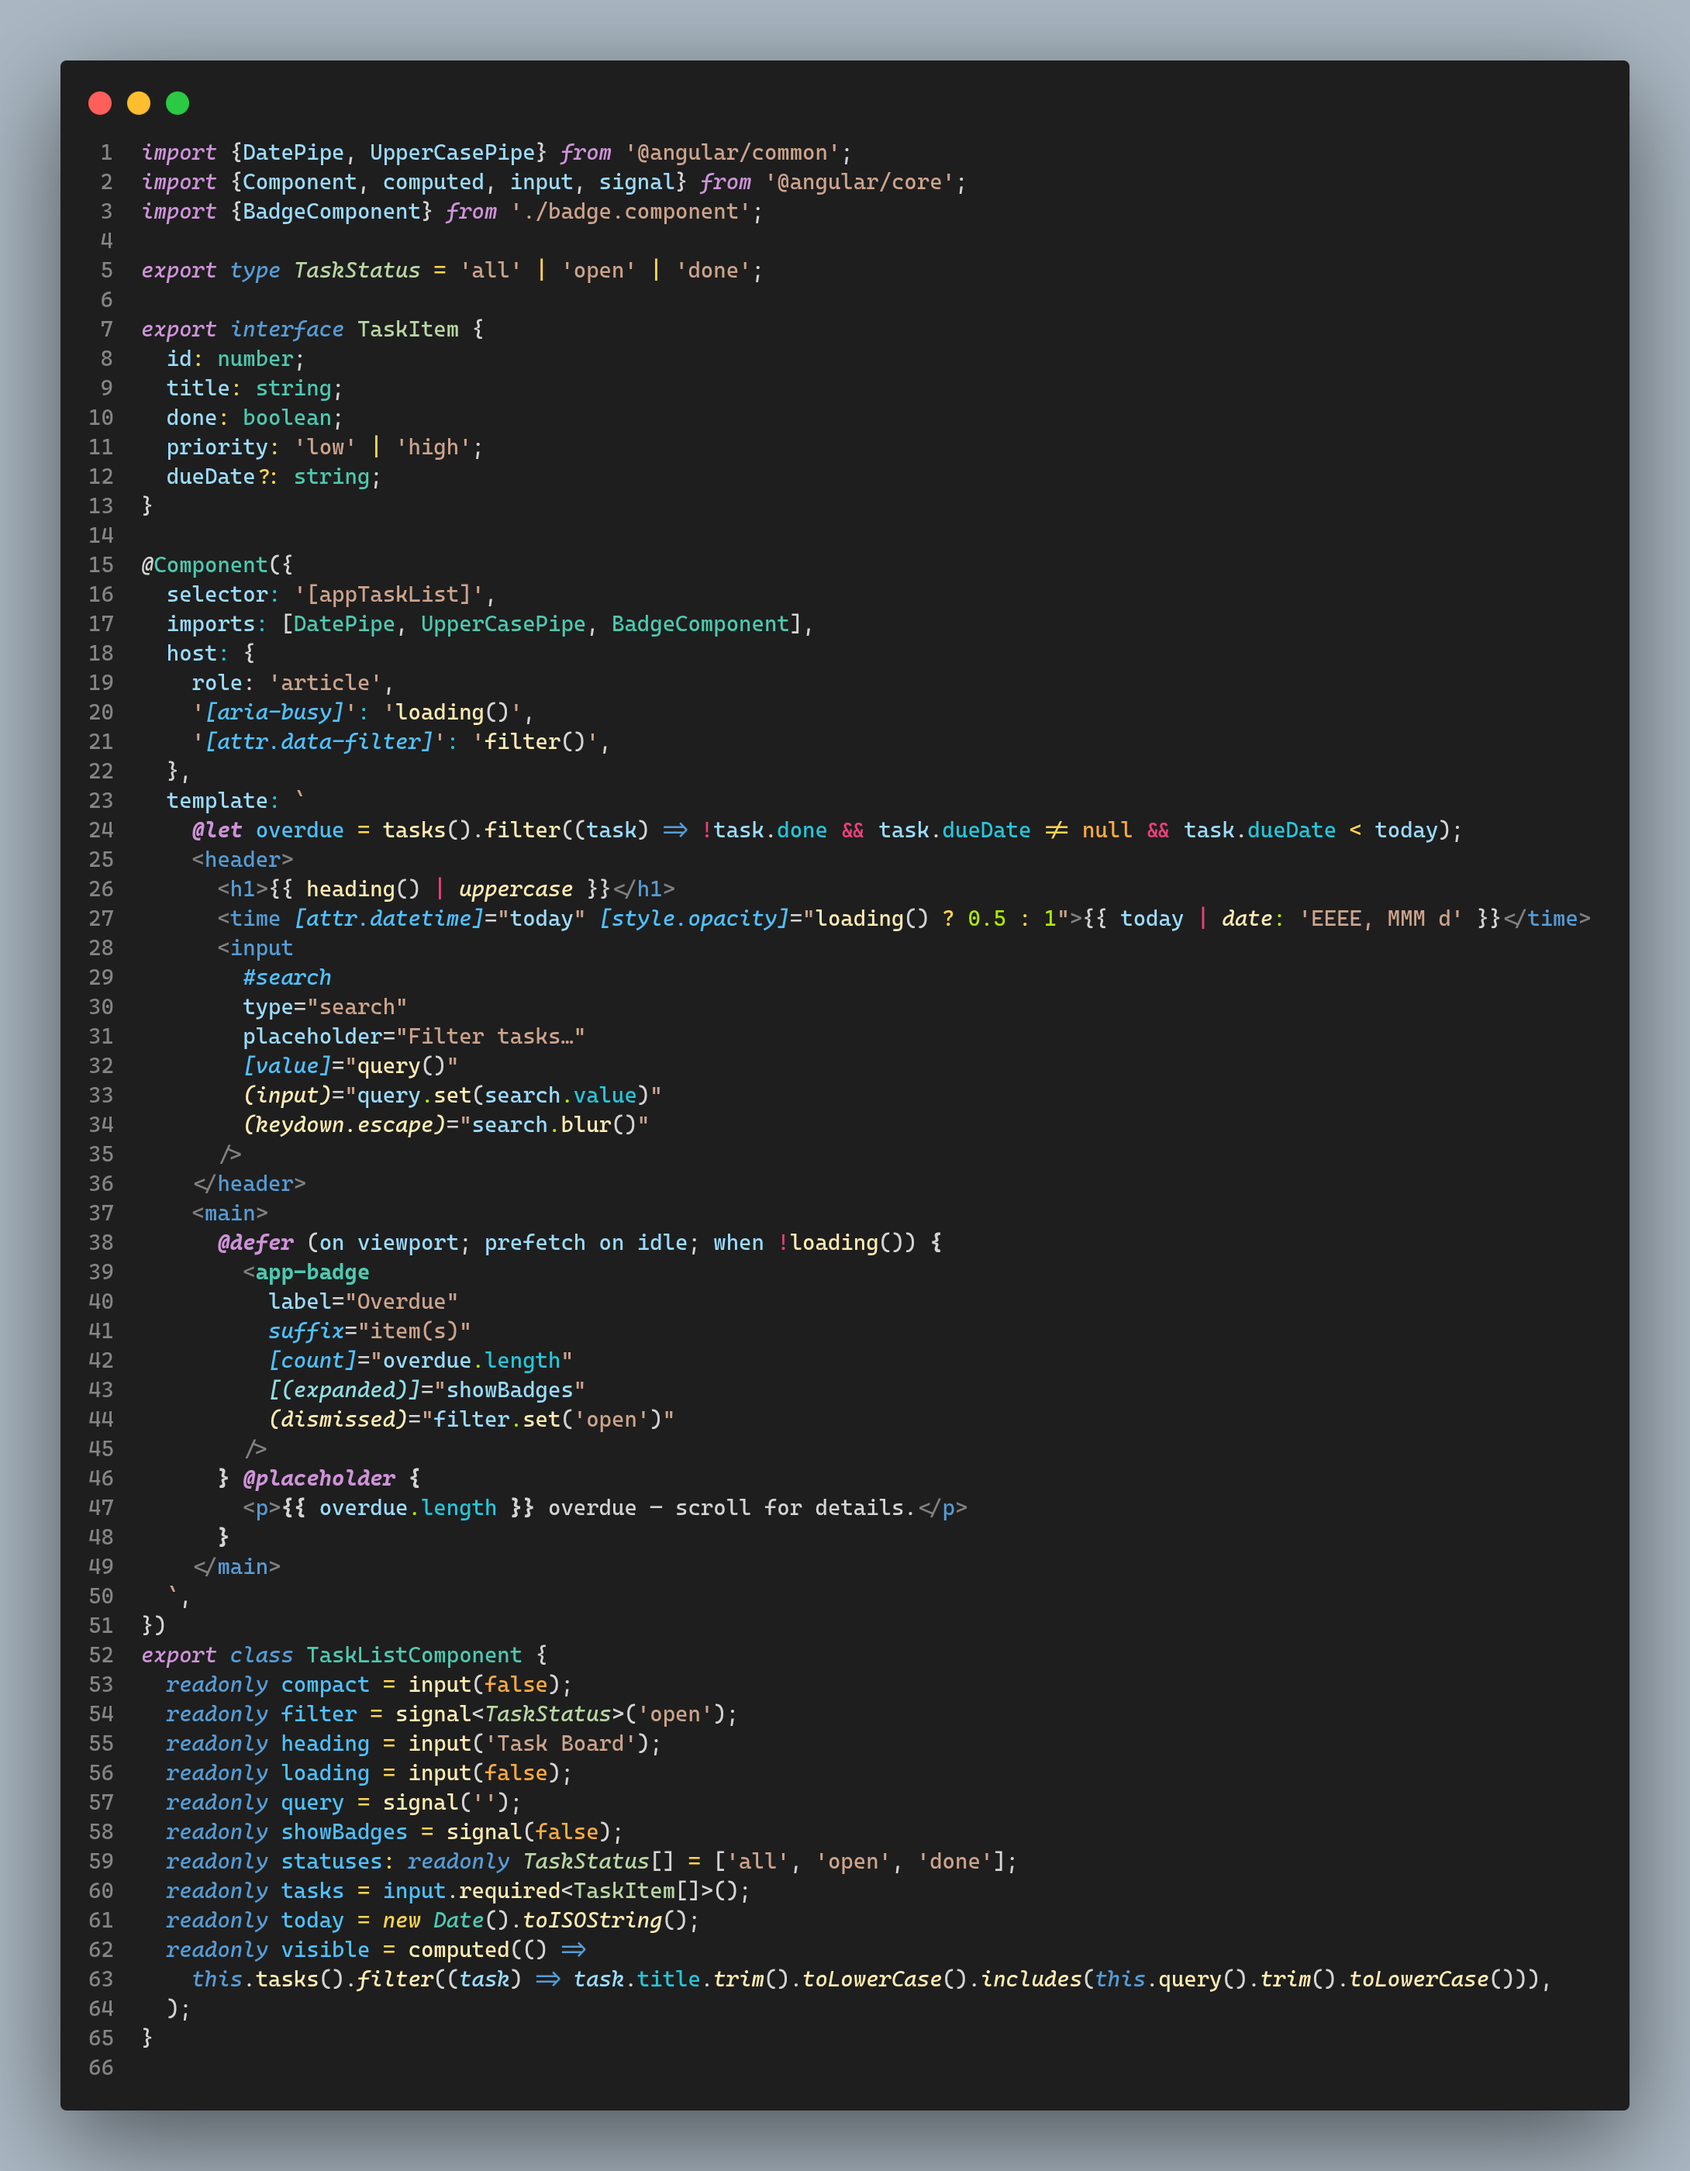
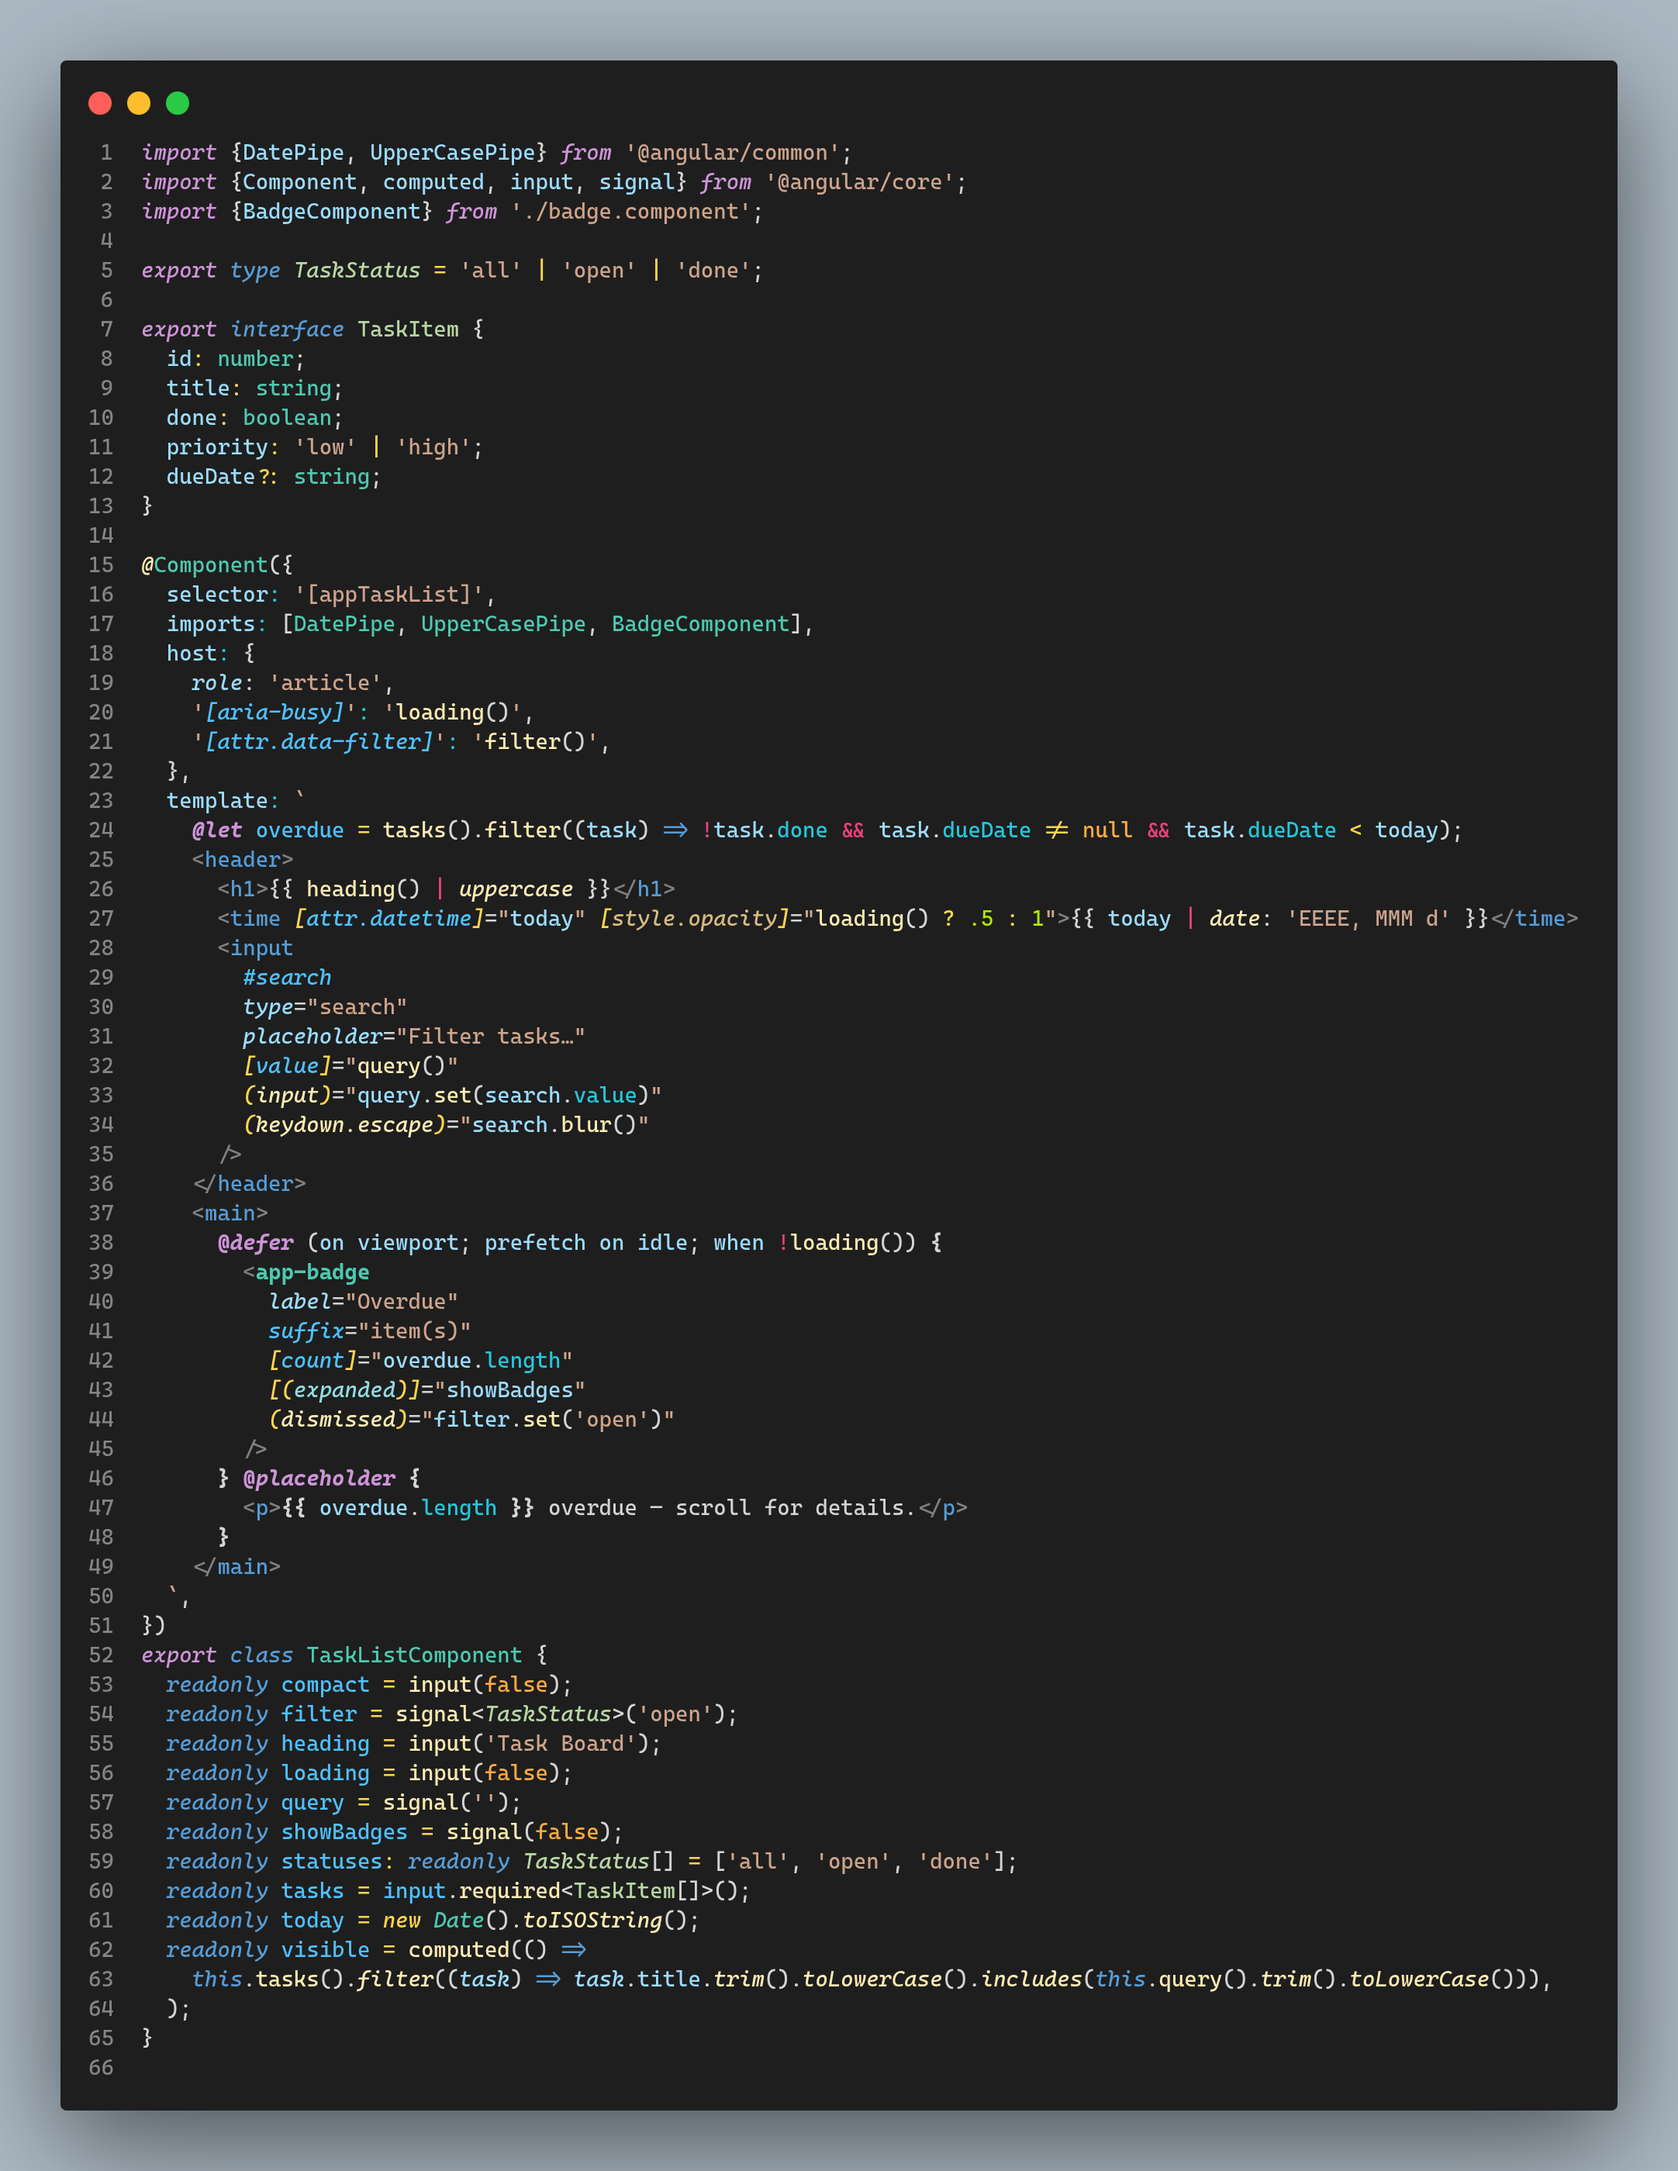
theme updated

diff --git a/samples/csharp/Sample.cs b/samples/csharp/Sample.cs
@@ -1,3 +1,6 @@
+using System.Collections.ObjectModel;
+using System.ComponentModel.DataAnnotations;
+
 namespace DarkSharp.Samples;
 
 public enum OrderStatus { Pending, Shipped, Delivered, Cancelled }
@@ -14,10 +17,10 @@ public interface IOrderRepository
 
 public class Order
 {
-    public required Guid Id { get; init; }
-    public required string Customer { get; set; }
+    [Required] public required Guid Id { get; init; }
+    [Required] public required string Customer { get; set; }
     public OrderStatus Status { get; private set; } = OrderStatus.Pending;
-    public List<OrderLine> Lines { get; } = [];
+    public ReadOnlyCollection<OrderLine> Lines { get; } = [];
 
     public decimal GrandTotal => Lines.Sum(line => line.Total);
 
@@ -35,7 +38,7 @@ public class OrderService(IOrderRepository repository)
 
     public async Task<decimal> OutstandingRevenueAsync(CancellationToken ct)
     {
-        var pending = await repository.GetByStatusAsync(OrderStatus.Pending, ct);
+        IReadOnlyList<Order> pending = await repository.GetByStatusAsync(OrderStatus.Pending, ct);
         return pending
             .Where(order => order.GrandTotal > FreeShippingThreshold)
             .Sum(order => order.GrandTotal);
